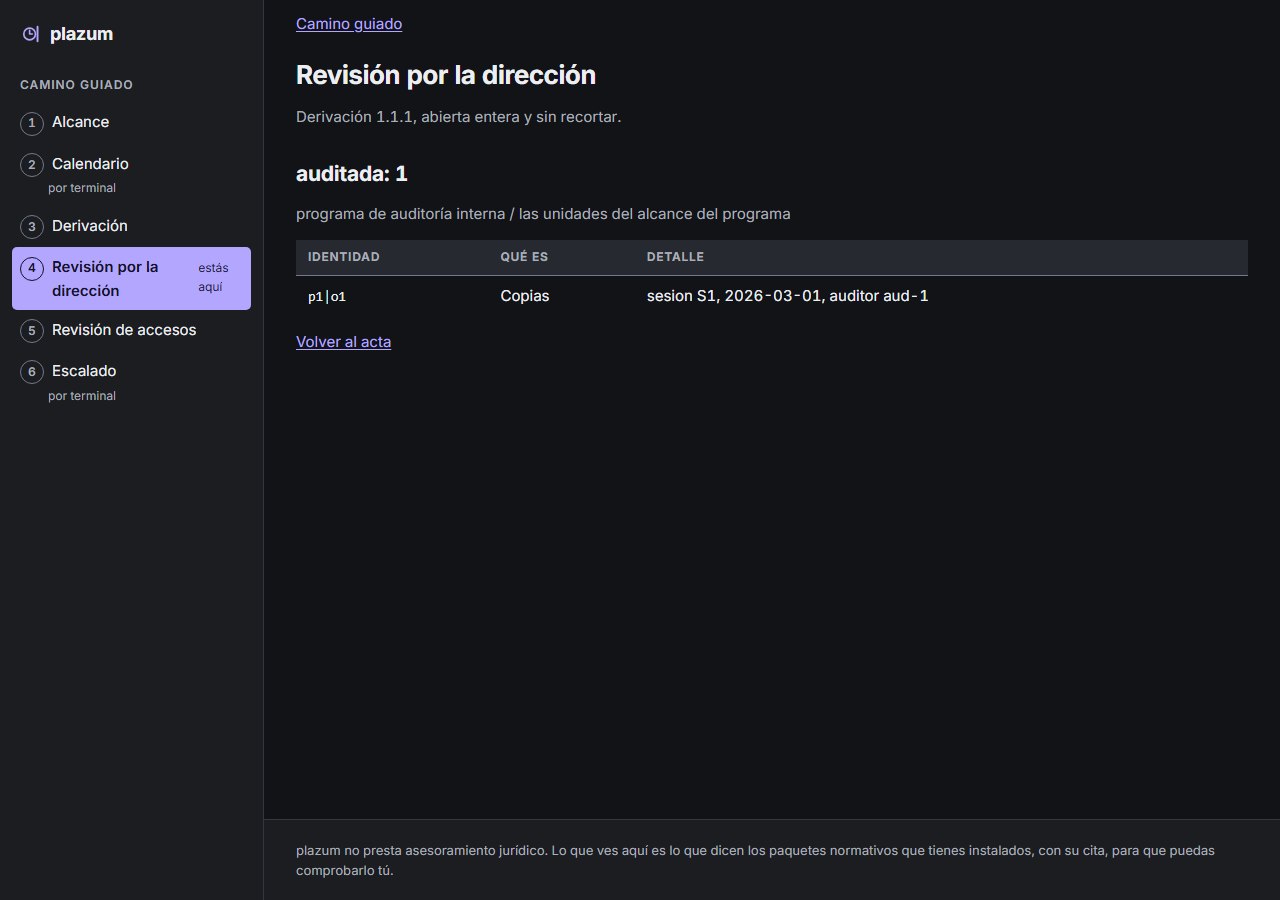
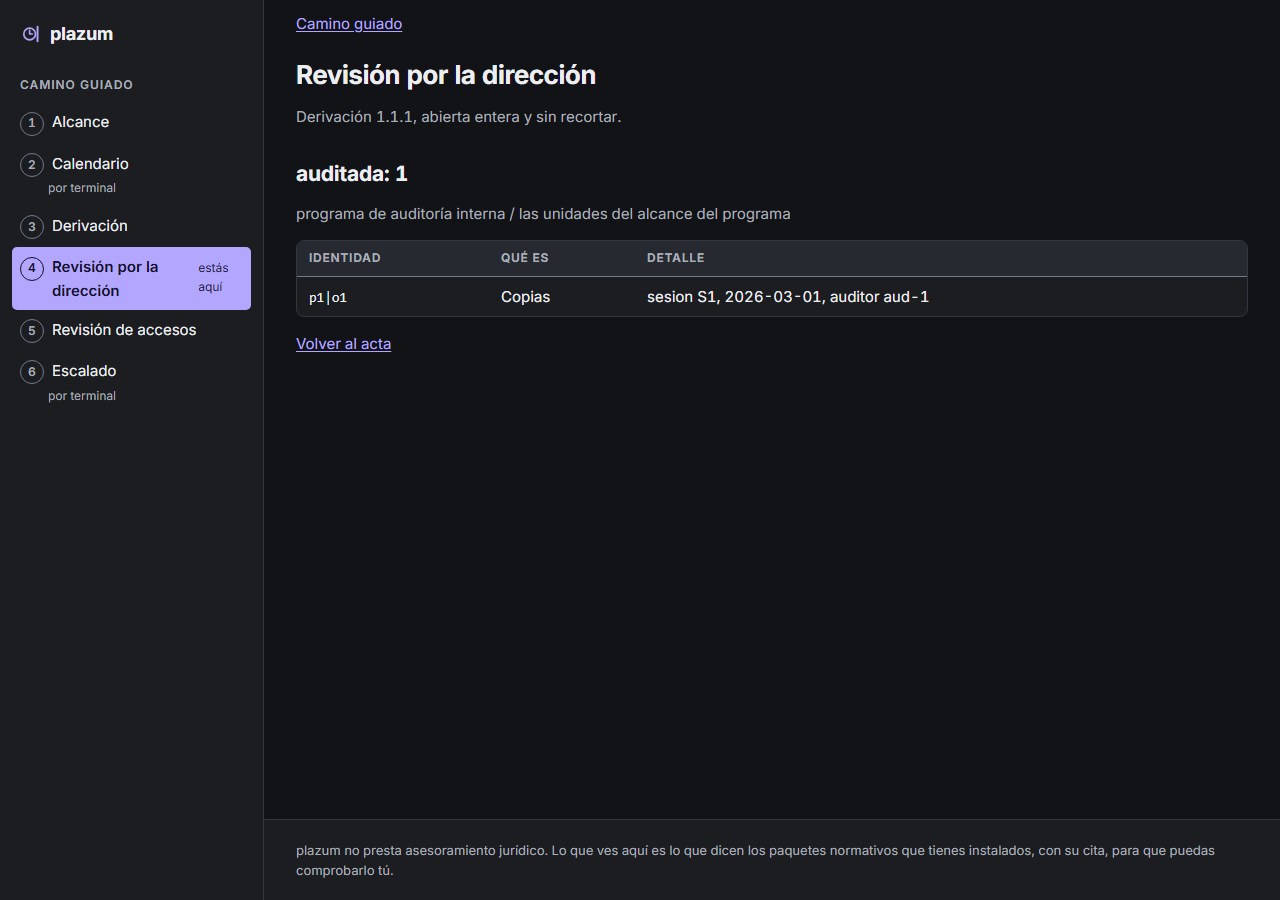
la tabla de Controles cabia entera y no se podia leer ni una palabra
Pasada 3, contra el comprador, y el hallazgo no salio de leer el diff: salio de
mirar la captura, que es exactamente para lo que existe la puerta nueva.

La tabla de Controles tiene doce columnas. Se apretaba dentro del ancho de la
ventana y cada celda se partia LETRA A LETRA: "urn:de / mo:alf / a", "perio /
dica", "de / mo / alfa / art. / 31". Cinco filas ocupaban la pantalla entera, con
filas de doscientos cincuenta pixeles de alto, y el CISO que abre esto a las
nueve de la manana ve la pantalla que dice que obligaciones le alcanzan y no
puede leer ninguna. Ninguna puerta lo veia: el HTML era correcto, las claves
estaban, los contrastes daban, y axe no mide legibilidad.

El arreglo es que la tabla pida su ancho natural (min-width:max-content) y que
sea SU MARCO el que se desplace, que es para lo que .marco-tabla ya existia. El
techo por celda se queda para que una etiqueta larguisima de un paquete hostil no
estire la tabla sin fin, y overflow-wrap solo entra ya cuando una palabra sola no
cabe en ese techo.

Y de paso, las dos tablas que estaban FUERA de todo marco entran en el suyo: la
derivacion del acta y la de accesos de la UAR. En la segunda importa mas que en
ninguna, porque una campana de verdad trae cientos de filas y sin cabecera fija,
a la fila cuarenta, ya no se sabe cual columna es el estado y cual el revisor:
eso es la diferencia entre revisar y firmar a ciegas.

DOS PUERTAS NUEVAS, porque un arreglo de CSS sin puerta se deshace solo:
[…]

diff --git a/superficies/pantallas/estatico/plazum.css b/superficies/pantallas/estatico/plazum.css
@@ -580,6 +580,18 @@ h1 + .intro, h1 + .explicacion { margin-top: var(--e3); }
  * baja: sin eso, a la fila cuarenta ya no se sabe que columna es cual. */
 .marco-tabla { overflow: auto; max-height: 78vh; }
 table { border-collapse: separate; border-spacing: 0; width: 100%; font-size: var(--t-md); }
+/* LA TABLA SE ENSANCHA HASTA QUE SUS PALABRAS CABEN, y es el marco el que se
+ * desplaza. Sin esto, la tabla de Controles (doce columnas) se apretaba dentro
+ * del ancho de la ventana y cada celda se partia LETRA A LETRA: "urn:de / mo:alf
+ * / a", "perio / dica". Cabia todo y no se podia leer nada, y la fila medía
+ * doscientos cincuenta pixeles de alto. Se vio en la captura: ninguna puerta de
+ * este repositorio mira eso, porque el HTML era correcto y el contraste tambien.
+ *
+ * min-width:max-content pide el ancho natural del contenido; el max-width de
+ * cada celda de abajo le pone techo para que una etiqueta larguisima de un
+ * paquete hostil no estire la tabla sin fin; y .marco-tabla ya tenia el
+ * overflow:auto que hace que se desplace ella y nunca el cuerpo de la pagina. */
+.marco-tabla > table { min-width: max-content; }
 caption { text-align: left; padding: var(--e3) var(--e4); color: var(--tinta-2); font-size: var(--t-sm); }
 th, td {
   text-align: left;
@@ -587,9 +599,14 @@ th, td {
   padding: var(--e2) var(--e3);
   border-bottom: 1px solid var(--borde-suave);
   /* Una etiqueta larguisima de un paquete hostil no puede reventar la
-   * maquetacion ni salirse de su celda. */
+   * maquetacion ni salirse de su celda. overflow-wrap SOLO entra cuando una
+   * palabra sola no cabe en el techo: con el ancho natural de arriba, el texto
+   * normal ya no se parte por la mitad. */
   overflow-wrap: anywhere;
   max-width: 34rem;
+  /* Y un minimo, para que una columna de una palabra corta no se quede tan
+   * estrecha que la cabecera se parta. */
+  min-width: 4.5rem;
 }
 thead th {
   position: sticky;

diff --git a/superficies/acta/plantillas/acta.html b/superficies/acta/plantillas/acta.html
@@ -121,6 +121,14 @@ medias vuelve a ser un numero que hay que creerse.
   <div class="descargo" role="note"><p><strong>{{.Derivacion.Descargo}}</strong></p></div>
   {{end}}
   {{if .Derivacion.Elementos}}
+  {{- /*
+  LA TABLA VA DENTRO DE SU MARCO, que es el que se desplaza. Sin el, una lista
+  larga de elementos empujaba el ancho del cuerpo entero y la cabecera se perdia
+  al bajar: a la fila cuarenta ya no se sabe que columna es cual. En papel el
+  marco no existe (la hoja de impresion le quita el desplazamiento y el alto
+  maximo), que es lo que hace que el board pack salga con la tabla entera.
+  */ -}}
+  <div class="marco-tabla">
   <table>
     <thead><tr>
       <th scope="col">{{t "acta.pantalla.columna_clave"}}</th>
@@ -133,6 +141,7 @@ medias vuelve a ser un numero que hay que creerse.
       {{end}}
     </tbody>
   </table>
+  </div>
   {{else}}
   <p>{{t "acta.pantalla.vacio"}}</p>
   {{end}}

diff --git a/superficies/pantallas/plantillas/base.html b/superficies/pantallas/plantillas/base.html
@@ -134,6 +134,15 @@ Tres cosas de este bloque que NO son un descuido:
 
 {{define "navegacion"}}
 <nav id="navegacion" class="menu" aria-label="{{t "ui.navegacion"}}">
+  {{- /*
+  EL ROTULO DE LA SECCION, VISIBLE Y NO SOLO EN EL aria-label.
+  La barra lleva dos listas seguidas (el camino y las pantallas) y la segunda
+  empezaba sin decir que era: quien la abre por primera vez ve diez lineas
+  seguidas y no sabe donde acaba una cosa y empieza la otra. El aria-label ya lo
+  decia, o sea que lo sabia quien usa lector de pantalla y no quien mira. Es la
+  misma palabra, del mismo sitio: no hay una segunda cadena que traducir.
+  */ -}}
+  <p class="rotulo-seccion">{{t "ui.navegacion"}}</p>
   <ul>
   {{- range .Menu}}
     <li>

diff --git a/superficies/uar/plantillas/uar.html b/superficies/uar/plantillas/uar.html
@@ -168,6 +168,13 @@ leerse, y entonces no protege de nada.
 
 <section class="accesos">
   <h2>{{t "uar.tabla.titulo"}}</h2>
+  {{- /*
+  LA TABLA VA DENTRO DE SU MARCO, que es el que se desplaza y el que deja la
+  cabecera pegada arriba. Una campana de verdad trae cientos de filas: sin esto,
+  a la fila cuarenta ya no se sabe cual de las columnas es el estado y cual el
+  revisor, que en esta pantalla es la diferencia entre revisar y firmar a ciegas.
+  */ -}}
+  <div class="marco-tabla">
   <table>
     <caption>{{t "uar.tabla.pie"}}</caption>
     <thead>
@@ -223,6 +230,7 @@ leerse, y entonces no protege de nada.
     {{end}}
     </tbody>
   </table>
+  </div>
 </section>
 
 <section class="cierre">

diff --git a/superficies/pantallas/pastillas_test.go b/superficies/pantallas/pastillas_test.go
@@ -2,6 +2,7 @@ package pantallas
 
 import (
 	"os"
+	"path/filepath"
 	"regexp"
 	"strings"
 	"testing"
@@ -49,15 +50,25 @@ func hojaDeEstilo(t *testing.T) string {
 	return string(b)
 }
 
+// regla es un bloque de la hoja: su selector y su cuerpo.
+type regla struct{ sel, cuerpo string }
+
 // reglasDe saca los bloques cuyo selector empieza por el prefijo dado.
-func reglasDe(t *testing.T, hoja, prefijo string) map[string]string {
+//
+// DEVUELVE UNA LISTA Y NO UN MAPA, y esto costo un rojo: el mismo selector sale
+// mas de una vez en la hoja a proposito (thead th se declara para la pantalla y
+// otra vez dentro de @media print, donde deja de estar pegado). Con un mapa, la
+// segunda aparicion se comia a la primera y el test afirmaba lo contrario de lo
+// que pasa en pantalla. Es la cascada de CSS: aqui no hay una regla por
+// selector, hay todas.
+func reglasDe(t *testing.T, hoja, prefijo string) []regla {
 	t.Helper()
-	out := map[string]string{}
+	var out []regla
 	re := regexp.MustCompile(`(?m)^([^{}/@][^{}]*)\{([^{}]*)\}`)
 	for _, m := range re.FindAllStringSubmatch(hoja, -1) {
 		sel := strings.TrimSpace(m[1])
 		if strings.HasPrefix(sel, prefijo) {
-			out[sel] = m[2]
+			out = append(out, regla{sel: sel, cuerpo: m[2]})
 		}
 	}
 	return out
@@ -85,13 +96,13 @@ func TestNingunaPastillaDeEstadoSePintaConElColorDeAlarma(t *testing.T) {
 		t.Fatalf("se han encontrado %d reglas de pastilla y hay mas: el detector esta "+
 			"mirando otra cosa", len(pastillas))
 	}
-	for sel, cuerpo := range pastillas {
+	for _, r := range pastillas {
 		for _, tok := range tokensDeAlarma {
-			if strings.Contains(cuerpo, "var("+tok+")") {
+			if strings.Contains(r.cuerpo, "var("+tok+")") {
 				t.Errorf("la pastilla %q se pinta con %s. Una pastilla de estado dice lo que "+
 					"CONSTA, y varias de ellas dicen que todavia no consta nada: el color de "+
 					"alarma acusa de un incumplimiento donde solo hay un dato que falta, y lo "+
-					"hace antes de que nadie lea la palabra que va dentro", sel, tok)
+					"hace antes de que nadie lea la palabra que va dentro", r.sel, tok)
 			}
 		}
 	}
@@ -138,5 +149,116 @@ func TestTodaPastillaDeEstadoLlevaSuRotuloEscritoDentro(t *testing.T) {
 	if vistas < 2 {
 		t.Fatalf("solo se han mirado %d pastillas: el detector no esta recorriendo las "+
 			"plantillas que las pintan", vistas)
+	}
+}
+
+// TODA TABLA VA DENTRO DE SU MARCO, y el marco es el que se desplaza.
+//
+// # Por que es una regla y no una preferencia
+//
+// Una tabla suelta hace dos cosas malas a la vez, y las dos se vieron en una
+// captura antes de tener esta puerta. Empuja el ancho del CUERPO de la pagina,
+// asi que el desplazamiento horizontal se lo come todo (barra lateral incluida)
+// en vez de quedarse dentro de la tabla; y deja la cabecera arriba del documento
+// en vez de pegada a la tabla, asi que a la fila cuarenta ya no se sabe que
+// columna es cual. En la revision de accesos eso es la diferencia entre revisar
+// y firmar a ciegas, porque una campana de verdad trae cientos de filas.
+//
+// .marco-tabla es lo que arregla las dos: overflow:auto y max-height, y el
+// thead pegado dentro. Y en papel se apaga entero, que es lo que hace que el
+// board pack salga con la tabla completa.
+//
+// # Lo que se mira
+//
+// Los ficheros de plantilla de las tres superficies que pintan tablas. Se busca
+// cada <table> y se exige que lo mas cercano por encima sea el marco. Es un
+// detector por texto y no un parser de HTML a proposito: lo que puede
+// estropearse aqui es que alguien anada una tabla nueva y se olvide del marco, y
+// eso se ve mirando el orden de las etiquetas.
+func TestTodaTablaVaDentroDeSuMarcoDesplazable(t *testing.T) {
+	ficheros := []string{
+		"plantillas/tabla.html",
+		"../acta/plantillas/acta.html",
+		"../uar/plantillas/uar.html",
+	}
+	tablas := 0
+	for _, f := range ficheros {
+		b, err := os.ReadFile(f)
+		if err != nil {
+			t.Fatalf("no puedo leer %s: %v. Si la plantilla ha cambiado de sitio, esta "+
+				"puerta ha dejado de mirarla", f, err)
+		}
+		texto := string(b)
+		desde := 0
+		vistasAqui := 0
+		for {
+			i := strings.Index(texto[desde:], "<table")
+			if i < 0 {
+				break
+			}
+			i += desde
+			desde = i + 6
+			tablas++
+			vistasAqui++
+			// Lo mas cercano por encima tiene que ser la apertura del marco, no
+			// su cierre: si el ultimo marco que hay antes ya se cerro, esta
+			// tabla esta fuera.
+			antes := texto[:i]
+			abre := strings.LastIndex(antes, `class="marco-tabla"`)
+			cierra := strings.LastIndex(antes, "</table>")
+			if abre < 0 || abre < cierra {
+				t.Errorf("%s: la tabla que empieza en el byte %d no esta dentro de un "+
+					"marco-tabla. Sin el, la tabla empuja el ancho del cuerpo entero y la "+
+					"cabecera deja de verse al bajar", filepath.Base(f), i)
+			}
+		}
+		if vistasAqui == 0 {
+			t.Errorf("%s no pinta ninguna tabla: o ha dejado de hacerlo, o el detector no "+
+				"la reconoce y este test mide el vacio", f)
+		}
+	}
+	if tablas < 3 {
+		t.Fatalf("solo se han mirado %d tablas: el detector no esta recorriendo las "+
+			"plantillas que las pintan", tablas)
+	}
+}
+
+// Y EL MARCO SIGUE SIENDO EL QUE SE DESPLAZA, no la pagina.
+//
+// El control positivo del test de arriba es que encuentra tablas; el de este es
+// que la clase existe en la hoja con las dos propiedades que la hacen util. Un
+// marcado que envuelve todas las tablas en una clase que no hace nada pasaria el
+// primero y no arreglaria nada.
+func TestElMarcoDeLaTablaSeDesplazaElSoloYFijaSuCabecera(t *testing.T) {
+	hoja := hojaDeEstilo(t)
+	for _, exigido := range []string{
+		".marco-tabla { overflow: auto;",
+		".marco-tabla > table { min-width: max-content; }",
+		"position: sticky;",
+	} {
+		if !strings.Contains(hoja, exigido) {
+			t.Errorf("la hoja no trae %q. El marco sin desplazamiento propio no protege al "+
+				"cuerpo de la pagina, y sin ancho natural la tabla se aprieta y parte las "+
+				"palabras letra a letra", exigido)
+		}
+	}
+	// La cabecera pegada tiene que ser la del thead y no otra cosa que use
+	// sticky en la hoja, asi que se mira dentro de su regla.
+	reglas := reglasDe(t, hoja, "thead th")
+	if len(reglas) == 0 {
+		t.Fatal("no hay ninguna regla de thead th en la hoja: el detector mide el vacio")
+	}
+	// Basta con que UNA de las apariciones la deje pegada: la de @media print la
+	// suelta a proposito, porque en papel no hay nada que desplazar y una
+	// cabecera pegada se repetiria encima del texto.
+	pegada := false
+	for _, r := range reglas {
+		if strings.Contains(r.cuerpo, "position: sticky") {
+			pegada = true
+		}
+	}
+	if !pegada {
+		t.Error("la cabecera de la tabla no se queda pegada al bajar: a la fila cuarenta " +
+			"ya no se sabe que columna es cual")
 	}
 }
